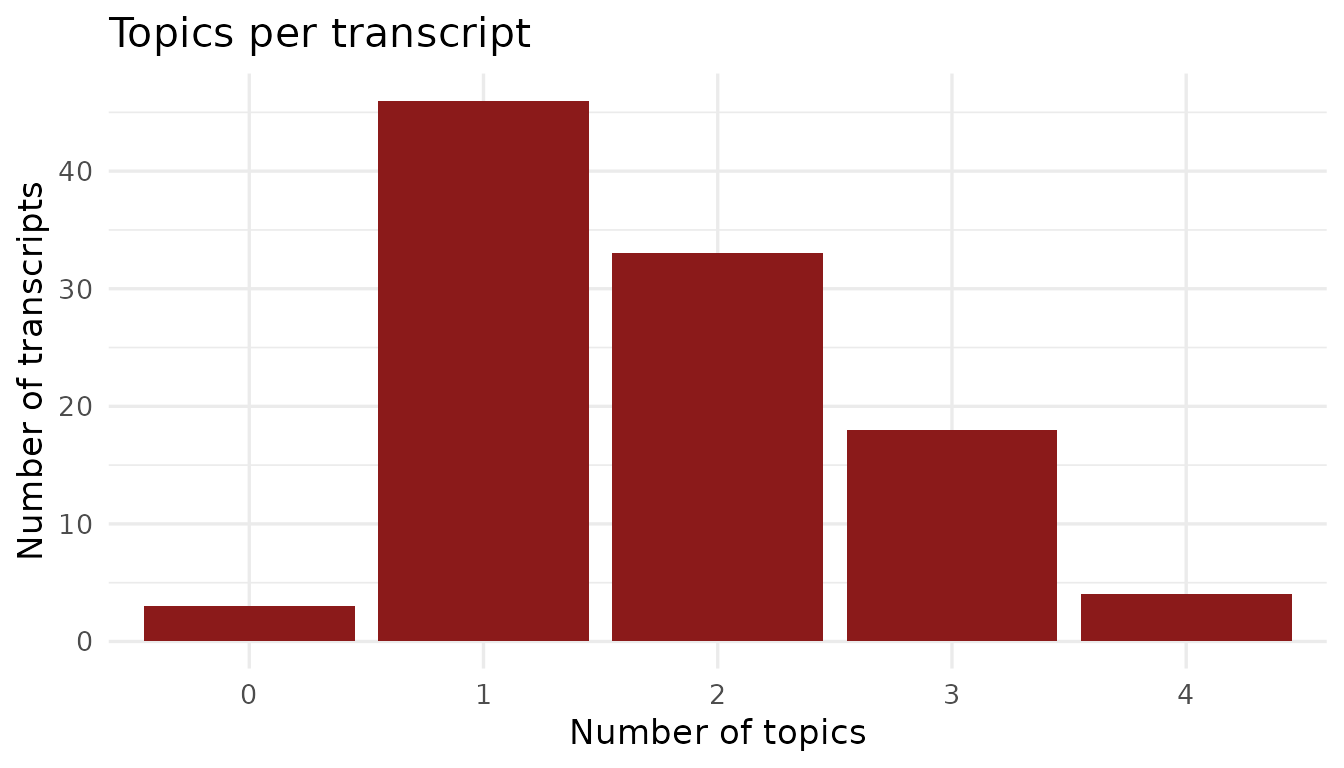
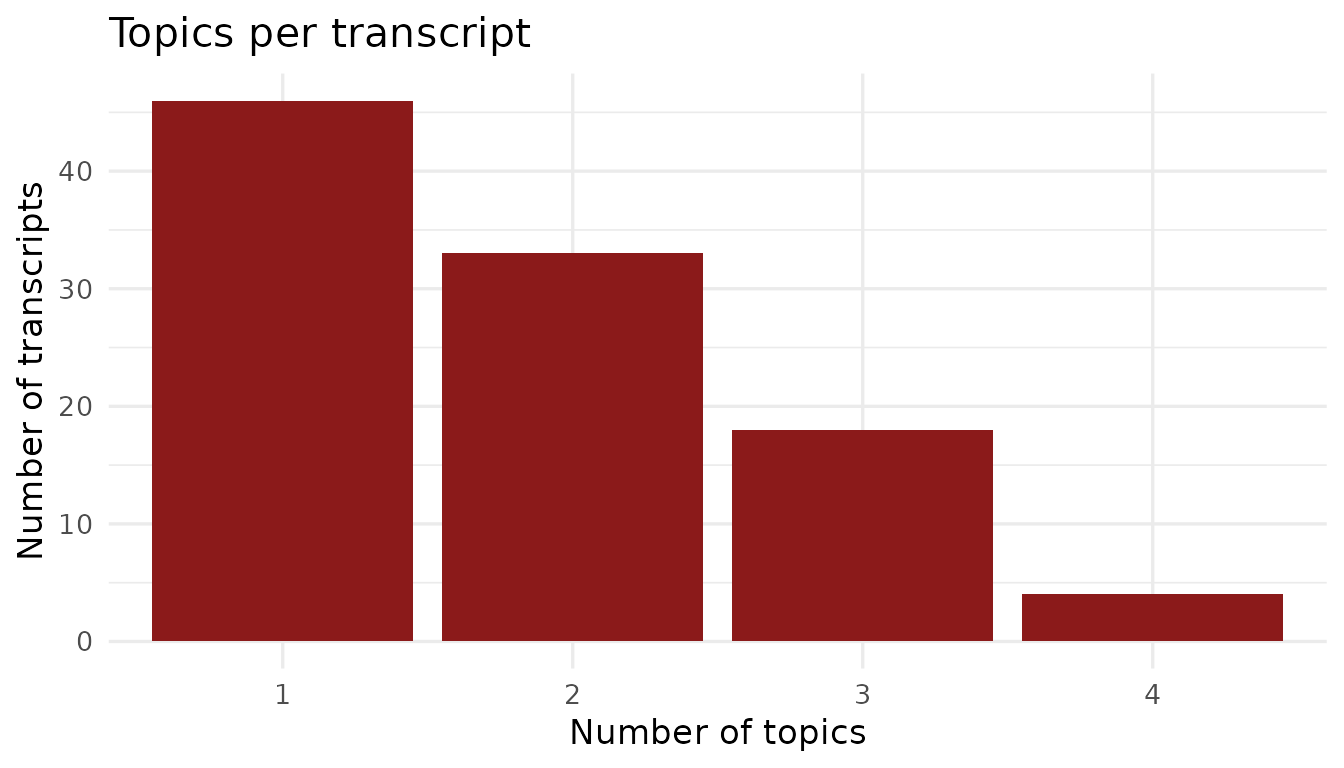
Deploying to gh-pages from @ jessietrudeau/BribeR@235910386c35fd1419634b73e488e4510cd8f955 🚀

diff --git a/articles/raw_data_guide.html b/articles/raw_data_guide.html
@@ -174,15 +174,15 @@ transcripts that were present only in the print volumes.</li>
 <span><span class="co">## There are 101 transcripts in the dataset</span></span>
 <span><span class="va">meta</span> <span class="op">&lt;-</span> <span class="fu"><a href="../reference/read_transcript_meta_data.html">read_transcript_meta_data</a></span><span class="op">(</span><span class="op">)</span></span>
 <span><span class="fu"><a href="https://rdrr.io/r/base/nrow.html" class="external-link">nrow</a></span><span class="op">(</span><span class="va">meta</span><span class="op">)</span></span>
-<span><span class="co">#&gt; [1] 104</span></span></code></pre></div>
+<span><span class="co">#&gt; [1] 101</span></span></code></pre></div>
 <p>Transcripts range from brief exchanges of a few hundred words to
 lengthy multi-hour meetings exceeding 29,000 words. The median
 transcript is approximately 8,500 words (approximately an hour-long
 conversation).</p>
 <div class="sourceCode" id="cb2"><pre class="downlit sourceCode r">
 <code class="sourceCode R"><span><span class="fu"><a href="https://rdrr.io/r/base/summary.html" class="external-link">summary</a></span><span class="op">(</span><span class="va">meta</span><span class="op">$</span><span class="va">n_words</span><span class="op">)</span></span>
-<span><span class="co">#&gt;    Min. 1st Qu.  Median    Mean 3rd Qu.    Max.     NAs </span></span>
-<span><span class="co">#&gt;     175    4544    8547    8946   11721   29161       3</span></span>
+<span><span class="co">#&gt;    Min. 1st Qu.  Median    Mean 3rd Qu.    Max. </span></span>
+<span><span class="co">#&gt;     175    4544    8547    8946   11721   29161</span></span>
 <span></span>
 <span><span class="fu"><a href="https://ggplot2.tidyverse.org/reference/ggplot.html" class="external-link">ggplot</a></span><span class="op">(</span><span class="va">meta</span>, <span class="fu"><a href="https://ggplot2.tidyverse.org/reference/aes.html" class="external-link">aes</a></span><span class="op">(</span>x <span class="op">=</span> <span class="va">n_words</span><span class="op">)</span><span class="op">)</span> <span class="op">+</span></span>
 <span>  <span class="fu"><a href="https://ggplot2.tidyverse.org/reference/geom_histogram.html" class="external-link">geom_histogram</a></span><span class="op">(</span>bins <span class="op">=</span> <span class="fl">25</span>, fill <span class="op">=</span> <span class="st">"#8B1A1A"</span>, color <span class="op">=</span> <span class="st">"white"</span><span class="op">)</span> <span class="op">+</span></span>

diff --git a/articles/raw_data_guide.md b/articles/raw_data_guide.md
@@ -108,7 +108,7 @@ library(ggplot2)
 ## There are 101 transcripts in the dataset
 meta <- read_transcript_meta_data()
 nrow(meta)
-#> [1] 104
+#> [1] 101
 ```
 
 Transcripts range from brief exchanges of a few hundred words to lengthy
@@ -118,8 +118,8 @@ approximately 8,500 words (approximately an hour-long conversation).
 ``` r
 
 summary(meta$n_words)
-#>    Min. 1st Qu.  Median    Mean 3rd Qu.    Max.     NAs 
-#>     175    4544    8547    8946   11721   29161       3
+#>    Min. 1st Qu.  Median    Mean 3rd Qu.    Max. 
+#>     175    4544    8547    8946   11721   29161
 
 ggplot(meta, aes(x = n_words)) +
   geom_histogram(bins = 25, fill = "#8B1A1A", color = "white") +